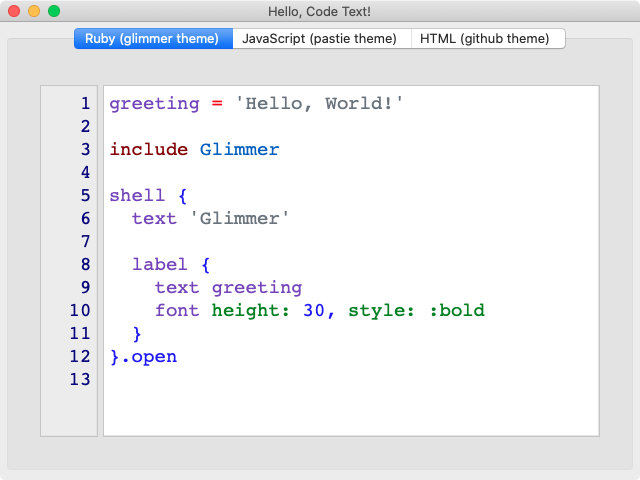
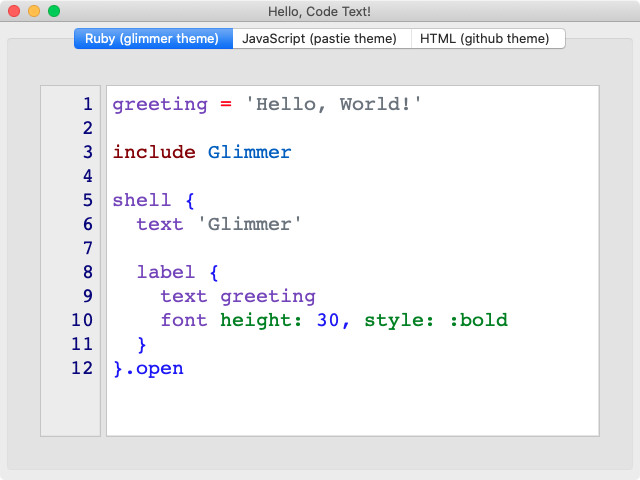
Update screenshots for Hello, Code Text! zooming

Changed region(s): [[0.0938, 0.1875, 0.8125, 0.9062], [0.3125, 0.4375, 0.4688, 0.5]]

diff --git a/TODO.md b/TODO.md
@@ -5,6 +5,7 @@ Here is a list of tasks to do (moved to [CHANGELOG.md](CHANGELOG.md) once done).
 ## Next
 
 - Refactor Hello, Table! to utilize a presenter in place of `BallparkGame` singleton class
+- Handle boundary condition of font height 0 in zoom support for `code_text`
 - Have `table` data-binding infer model attribute names from column names by convention
 - Allow `table` data-binding map model attribute names to column names via a hash
 - Support `-s`/`-S` `glimmer` command switch to enable running a glimmer script with `glimmer-dsl-swt` required and `Glimmer` module mixed into main object already.
@@ -14,6 +15,9 @@ Here is a list of tasks to do (moved to [CHANGELOG.md](CHANGELOG.md) once done).
 - Test tray_item in Windows after having removed on_widget_selected from its menu
 - Offload Internet call to grab latest tutorials in Glimmer Meta-Sample to an asynchronous thread to avoid delaying startup time
 
+- Enable select-all/zooming `code_text` with right-click contextual pop up menu
+- Enable cut/copy/paste in `code_text` with right-click contextual pop up menu
+- Enable undo/redo in `code_text` with right-click contextual pop up menu
 - Look into why line_style_value reverts back to original value in Hello, Canvas Data-Binding! after dragging/dropping endpoints
 
 - Use custom widgets (method-based or class-based) for the app_menu_bar and dialogs in scaffolded apps (and improve code spacing of menu items) / and make File menu Help menu instead by default
@@ -29,7 +33,8 @@ Here is a list of tasks to do (moved to [CHANGELOG.md](CHANGELOG.md) once done).
 - Support being able to declare extra listeners on custom widgets declaratively instead of by overriding handle_observation_request
 - Fix issue with Hello, Custom Shape! where if user clicks inside head, it changes color despite not being filled. It must not do so even if listener is attached to containing shape.
 
-- Include flat file database support into all Glimmer scaffolded apps in a passive state by default that users can activate by calling the FlatfileDatabase.store(hash)/FlatfileDatabase.load(hash) methods for example
+- Include flat file database (e.g. YAML, JSON, or CSV) support into all Glimmer scaffolded apps in a passive state by default that users can activate by calling the FlatfileDatabase.store(hash)/FlatfileDatabase.load(hash) methods for example
+- Include auto-synchronizing flat file database support across all app instances (it auto-propogates local hash changes persisted as JSON/YAML to the cloud by diffing and it listens to changes coming from the cloud). Explore different schema-less solutions to help with implementing this faster (like Reddis or Firebase).
 - Include ActiveRecord/SQLite DB support into all Glimmer scaffolded apps in a passive state by default that users can activate by adding a migration and an ActiveRecord model.
 
 - Add JFace to Glimmer DSL for SWT to use some of the JFace facilities like the Notification API and Notification Builder. Demonstrate the Notification API in Hello, Tray Item!
